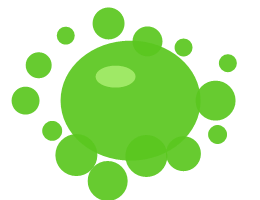
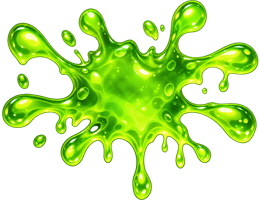
Props and effects: production art, scaled to the characters
All nine props and three effect images imported from the hi-res masters
with the new tools/ImportProp.cs (uniform fit, bottom/pin anchoring, alpha
fringe cleanup for the interactive layer). Props grow 1.5-2x to match the
upscaled characters; the bone ships hi-res as Characters/Bone (8 px/DIP).

Size-tied values follow the art: projectile radius 27, ball rest 12 px into
the cup, portal capture radius 150 and inset 220, blaster at x 110 with the
bolt leaving its muzzle.

diff --git a/tools/ImportProp.cs b/tools/ImportProp.cs
@@ -1,0 +1,119 @@
+#:property TargetFramework=net10.0-windows
+#:property UseWindowsForms=true
+#:property NoWarn=CA1416
+#:property PublishAot=false
+#:property PublishTrimmed=false
+
+// Imports one high-resolution transparent PNG (e.g. ART-PROOF/Props/broom.png) as a Haunt Patrol prop or
+// effect image of a fixed size. The source is only read.
+//
+//   dotnet run tools/ImportProp.cs -- ART-PROOF/Props/broom.png HauntPatrol/Assets/Props/broom.png 44x180 --clean
+//
+// The visible pixels (alpha > 16) are scaled uniformly to the largest size that fits, never stretched, and
+// padded with transparency. Placement:
+//   (default)         centred.
+//   --bottom          resting on the bottom edge, centred horizontally (cut-off wrists, cauldron feet).
+//   --pin sx,sy:dx,dy source pixel (sx,sy) lands on output point (dx,dy) in logical pixels, e.g. a pen nib on
+//                     the bottom centre, where the game expects the tip.
+//   --res k           k output pixels per logical pixel, for hi-res sprites (Characters/<Name>/, §2.4).
+//   --clean           for the interactive (alpha hit-tested) layer: drops the faint haze around the art before
+//                     scaling and near-invisible fringe pixels after it, so it can't swallow desktop clicks.
+
+using System.Drawing;
+using System.Drawing.Drawing2D;
+using System.Drawing.Imaging;
+using System.Runtime.InteropServices;
+
+const byte AlphaThreshold = 16, FringeAlpha = 10;
+
+var (srcPath, outPath, size) = (args[0], args[1], ParseSize(args[2]));
+var (bottom, clean, res) = (false, false, 1);
+(PointF From, PointF To)? pin = null;
+for (var i = 3; i < args.Length; i++)
+    switch (args[i])
+    {
+        case "--bottom": bottom = true; break;
+        case "--clean": clean = true; break;
+        case "--res": res = int.Parse(args[++i]); break;
+        case "--pin":
+            var p = args[++i].Split(':').Select(s => s.Split(',').Select(float.Parse).ToArray()).ToArray();
+            pin = (new PointF(p[0][0], p[0][1]), new PointF(p[1][0], p[1][1]));
+            break;
+        default: throw new ArgumentException($"unknown argument {args[i]}");
+    }
+
+using var source = new Bitmap(srcPath);
+var argb = source.Clone(new Rectangle(0, 0, source.Width, source.Height), PixelFormat.Format32bppArgb);
+if (clean) ClearBelow(argb, AlphaThreshold);
+var box = Bounds(argb);
+using var src = ToPArgb(argb); // premultiplied, so resampling doesn't drag dark fringes in from transparent pixels
+
+var (w, h) = (size.Width * res, size.Height * res);
+var scale = Math.Min((double)w / box.Width, (double)h / box.Height);
+// Where the bounding box's top-left lands, in output pixels.
+double x = (w - box.Width * scale) / 2, y = bottom ? h - box.Height * scale : (h - box.Height * scale) / 2;
+if (pin is var (from, to))
+{
+    x = to.X * res - (from.X - box.Left) * scale;
+    y = to.Y * res - (from.Y - box.Top) * scale;
+}
+
+using var output = new Bitmap(w, h, PixelFormat.Format32bppPArgb);
+using (var g = Graphics.FromImage(output))
+{
+    g.Clear(Color.Transparent);
+    g.CompositingQuality = CompositingQuality.HighQuality;
+    g.InterpolationMode = InterpolationMode.HighQualityBicubic;
+    g.PixelOffsetMode = PixelOffsetMode.HighQuality;
+    using var wrap = new ImageAttributes();
+    wrap.SetWrapMode(WrapMode.TileFlipXY); // no smeared edges from the resampler
+    var (left, top) = ((float)(x - box.Left * scale), (float)(y - box.Top * scale));
+    var (right, below) = (left + (float)(src.Width * scale), top + (float)(src.Height * scale));
+    g.DrawImage(src, [new PointF(left, top), new PointF(right, top), new PointF(left, below)],
+        new RectangleF(0, 0, src.Width, src.Height), GraphicsUnit.Pixel, wrap);
+}
+using var final = output.Clone(new Rectangle(0, 0, w, h), PixelFormat.Format32bppArgb);
+if (clean) ClearBelow(final, FringeAlpha);
+Directory.CreateDirectory(Path.GetDirectoryName(Path.GetFullPath(outPath))!);
+final.Save(outPath, ImageFormat.Png);
+
+var placed = new RectangleF((float)x, (float)y, (float)(box.Width * scale), (float)(box.Height * scale));
+var clipped = placed.Left < -0.5 || placed.Top < -0.5 || placed.Right > w + 0.5 || placed.Bottom > h + 0.5;
+Console.WriteLine($"{Path.GetFileName(outPath)}: {w}x{h}, art {placed.Width:0.0}x{placed.Height:0.0} at ({placed.X:0.0},{placed.Y:0.0}), " +
+                  $"scale {scale:0.0000}, {new FileInfo(outPath).Length / 1024.0:0.0} KB{(clipped ? "  WARNING: art extends past the canvas" : "")}");
+
+static Size ParseSize(string s) { var p = s.Split('x'); return new Size(int.Parse(p[0]), int.Parse(p[1])); }
+
+static Bitmap ToPArgb(Bitmap b)
+{
+    var p = new Bitmap(b.Width, b.Height, PixelFormat.Format32bppPArgb);
+    using (var g = Graphics.FromImage(p)) { g.CompositingMode = CompositingMode.SourceCopy; g.DrawImage(b, 0, 0, b.Width, b.Height); }
+    b.Dispose();
+    return p;
+}
+
+// Fully clears every pixel whose alpha is below the limit (colour too, so nothing reappears when resampled).
+static void ClearBelow(Bitmap bmp, byte limit)
+{
+    var data = bmp.LockBits(new Rectangle(0, 0, bmp.Width, bmp.Height), ImageLockMode.ReadWrite, PixelFormat.Format32bppArgb);
+    var px = new byte[data.Stride * bmp.Height];
+    Marshal.Copy(data.Scan0, px, 0, px.Length);
+    for (var i = 0; i < px.Length; i += 4)
+        if (px[i + 3] < limit) px[i] = px[i + 1] = px[i + 2] = px[i + 3] = 0;
+    Marshal.Copy(px, 0, data.Scan0, px.Length);
+    bmp.UnlockBits(data);
+}
+
+static Rectangle Bounds(Bitmap bmp)
+{
+    var data = bmp.LockBits(new Rectangle(0, 0, bmp.Width, bmp.Height), ImageLockMode.ReadOnly, PixelFormat.Format32bppArgb);
+    var px = new byte[data.Stride * bmp.Height];
+    Marshal.Copy(data.Scan0, px, 0, px.Length);
+    bmp.UnlockBits(data);
+    int l = bmp.Width, t = bmp.Height, r = -1, b = -1;
+    for (var y = 0; y < bmp.Height; y++)
+    for (var x = 0; x < bmp.Width; x++)
+        if (px[y * data.Stride + x * 4 + 3] > AlphaThreshold) { l = Math.Min(l, x); r = Math.Max(r, x); t = Math.Min(t, y); b = Math.Max(b, y); }
+    if (r < 0) throw new InvalidDataException("empty image");
+    return Rectangle.FromLTRB(l, t, r + 1, b + 1);
+}

diff --git a/HauntPatrol/Encounters/WitchsFamiliar/WitchsFamiliarEncounter.cs b/HauntPatrol/Encounters/WitchsFamiliar/WitchsFamiliarEncounter.cs
@@ -19,7 +19,7 @@ public sealed class WitchsFamiliarEncounter : IEncounter
     public const double WanderForce = 240, WanderTurn = 3;
     public const double PortalShyness = 650;  // the cat doesn't *want* to go home on its own
     public const double Damping = 1.8, MaxSpeed = 760;
-    public const double CaptureRadius = 100, Margin = 50, HudBand = 120;
+    public const double CaptureRadius = 150, Margin = 50, HudBand = 120; // capture: half the portal art (300 DIP)
     const double ChaseMemory = 1.5; // the portal only counts if the broom drove the cat there
 
     EncounterContext _c = null!;
@@ -71,7 +71,7 @@ public sealed class WitchsFamiliarEncounter : IEncounter
         _c = c;
         var r = c.Random;
         var portalLeft = !c.Demo && r.Next(2) == 0;
-        _portalPos = new Point(portalLeft ? 170 : c.Width - 170, c.Height * (c.Demo ? 0.45 : 0.3 + r.NextDouble() * 0.4));
+        _portalPos = new Point(portalLeft ? 220 : c.Width - 220, c.Height * (c.Demo ? 0.45 : 0.3 + r.NextDouble() * 0.4));
         _broomPos = _lastBroomPos = new Point(portalLeft ? c.Width * 0.8 : c.Width * 0.2, c.Height * 0.62);
         var cauldronPos = new Point(c.Width * (c.Demo ? 0.5 : 0.35 + r.NextDouble() * 0.3), c.Height * 0.84);
 

diff --git a/HauntPatrol/Encounters/SkeletonSiege/SkeletonSiegeEncounter.cs b/HauntPatrol/Encounters/SkeletonSiege/SkeletonSiegeEncounter.cs
@@ -40,7 +40,7 @@ public sealed class SkeletonSiegeOptions
     public double MaxPull { get; init; } = 230;
     public double MinPull { get; init; } = 25;
     public double GrabRadius { get; init; } = 70;
-    public double ProjectileRadius { get; init; } = 18;
+    public double ProjectileRadius { get; init; } = 27; // half the projectile art (54 DIP)
     public double HitPadding { get; init; } = 30;    // generous on purpose
     public double PreviewSeconds { get; init; } = 0.9; // only part of the arc, so aiming still takes skill
     public double WindUpSeconds { get; init; } = 5;
@@ -126,7 +126,7 @@ public sealed class SkeletonSiegeEncounter(SkeletonSiegeOptions? options = null)
         _skeleton = c.Spawn("skeleton", skeletonX, _groundY); // character pivot: feet
         _skeleton.FlipX = _dir < 0; // art faces right; face the way it will walk
 
-        _rest = new Point(catapultX, _groundY - catapultHeight + 8);
+        _rest = new Point(catapultX, _groundY - catapultHeight + 12); // in the cup, just below the catapult's top centre
         _ballPos = _rest;
         _ball = c.Spawn("projectile", _rest.X, _rest.Y);
 

diff --git a/HauntPatrol/Encounters/ZombieInvasion/ZombieInvasionEncounter.cs b/HauntPatrol/Encounters/ZombieInvasion/ZombieInvasionEncounter.cs
@@ -134,7 +134,7 @@ public sealed class ZombieInvasionEncounter(ZombieInvasionOptions? options = nul
         // Brain and blaster are never clicked: click-through layer.
         _brain = c.Spawn("brain", _brainPos.X, _brainPos.Y, onEffectsLayer: true);
         _brain.ScaleX = _brain.ScaleY = 0;
-        _blaster = c.Spawn("blaster", 80, c.Height * 0.86, onEffectsLayer: true);
+        _blaster = c.Spawn("blaster", 110, c.Height * 0.86, onEffectsLayer: true);
         _blaster.Opacity = 0;
 
         BuildThreatMeter();
@@ -387,7 +387,7 @@ public sealed class ZombieInvasionEncounter(ZombieInvasionOptions? options = nul
     void Zap(Zombie z, Point at)
     {
         _c.Audio.Play("zap");
-        Bolt(new Point(_blaster.X + 30, _blaster.Y - 22), at);
+        Bolt(new Point(_blaster.X + 70, _blaster.Y - 30), at); // the centre of the muzzle's mouth in the blaster art
         _blaster.Shake(0.12, 3);
         _c.Particles.Ring(at, Color.FromRgb(160, 255, 255), 45, 0.25, 4);
         _c.Particles.Burst(at, 8, Color.FromRgb(200, 255, 255), 260, 0.35, 5, 0);

diff --git a/ART-ASSETS.md b/ART-ASSETS.md
@@ -332,15 +332,44 @@ source. The victory face reads as mild, not overjoyed.
 
 | File | id | Size | Layer | Used in | Notes for the artist |
 |---|---|---|---|---|---|
-| `Props/catapult.png` | `catapult` | 150 × 110 | interactive | Skeleton | Base sits on the bottom edge. The projectile rests about 8 px below the **top centre** (the cup). The game mirrors it and rocks it 10° when firing. |
-| `Props/projectile.png` | `projectile` | 36 × 36 | interactive | Skeleton | Spins in flight, so keep it roughly round. |
-| `Props/bone.png` | `bone` | 70 × 26 | click-through | Skeleton | Spins and is **scaled up to 10×** as it flies at the viewer. Provide it hi-res via §2.4. |
-| `Props/broom.png` | `broom` | 44 × 180 | interactive | Cat | Vertical, bristles at the bottom. The cat flees from a point 35% below the centre. It tilts ±35° while dragged. |
-| `Props/portal.png` | `portal` | 200 × 200 | interactive | Cat | Spins continuously at 90°/s, so make it roughly radially symmetric. The capture radius is ~100 DIP. Good candidate for animated frames (§2.4). |
-| `Props/cauldron.png` | `cauldron` | 120 × 96 | interactive | Cat | Tips over 100° about its centre on failure, and slime bursts from its rim. |
-| `Props/pen.png` | `pen` | 28 × 110 | interactive | Ghost | Vertical, **writing tip at the bottom centre**. It's held tilted 25° and the trail starts at the tip. It's drawn at 125% (`GhostTrapOptions.PenScale`), with a pulsing glow on the tip added in code. |
-| `Props/blaster.png` | `blaster` | 100 × 64 | click-through | Zombies | Sits bottom-left. Bolts leave from a point 30 px right and 22 px above its centre, so put the muzzle at the upper right. |
-| `Props/bonehand.png` | `bonehand` | 46 × 70 | click-through | Zombies | Skeletal hand, fingers up. Two of them poke up from the bottom edge as a warning. |
+| `Props/catapult.png` | `catapult` | 225 × 165 | interactive | Skeleton | Base sits on the bottom edge. The projectile rests 12 px below the **top centre** (the cup). The game mirrors it and rocks it 10° when firing. |
+| `Props/projectile.png` | `projectile` | 54 × 54 | interactive | Skeleton | Spins in flight, so keep it roughly round. Collides as a circle of radius 27 (`ProjectileRadius`). |
+| `Props/bone.png` | `bone` | 105 × 39 | click-through | Skeleton | Spins and is **scaled up to 10×** as it flies at the viewer. Shipped hi-res as `Characters/Bone/` (840 × 312, 8 px per DIP, which the loader prefers). This 105 × 39 file is only a fallback. |
+| `Props/broom.png` | `broom` | 77 × 315 | interactive | Cat | Vertical, bristles at the bottom. The cat flees from a point 35% below the centre. It tilts ±35° while dragged. |
+| `Props/portal.png` | `portal` | 300 × 300 | interactive | Cat | Spins continuously at 90°/s, so make it roughly radially symmetric. The capture radius is 150 DIP (`CaptureRadius`), and its centre sits 220 DIP from the screen edge. |
+| `Props/cauldron.png` | `cauldron` | 240 × 192 | interactive | Cat | Tips over 100° about its centre on failure, and slime bursts from its rim. |
+| `Props/pen.png` | `pen` | 42 × 165 | interactive | Ghost | Vertical, **writing tip at the bottom centre**. It's held tilted 25° and the trail starts at the tip. It's drawn at 125% (`GhostTrapOptions.PenScale`), with a pulsing glow on the tip added in code. |
+| `Props/blaster.png` | `blaster` | 175 × 112 | click-through | Zombies | Sits bottom-left, centred 110 DIP from the left edge. Bolts leave from a point 70 px right and 30 px above its centre (the production muzzle's mouth), so put the muzzle at the upper right. |
+| `Props/bonehand.png` | `bonehand` | 80 × 122 | click-through | Zombies | Skeletal hand, fingers up. Two of them poke up from the bottom edge as a warning. |
+
+### 4.1 Production props and effects
+
+Every image in §4 and §5 is production art, imported from the high-resolution masters in `ART-PROOF/Props/`
+and `ART-PROOF/Effects/`:
+
+```
+dotnet run tools/ImportProp.cs -- ART-PROOF/Props/broom.png HauntPatrol/Assets/Props/broom.png 44x180 --clean
+```
+
+The importer scales the visible pixels (alpha > 16) uniformly to the largest size that fits and pads the rest
+with transparency, so nothing is stretched. Options:
+- `--bottom` rests the art on the bottom edge. Used for the catapult, the cauldron and the bone hand, whose wrist
+  is cut off at the edge so it climbs out of the screen.
+- `--pin` puts a chosen source point on a chosen output point. The pen's nib, at (362, 2104) in the master, goes
+  to (21, 164), the bottom centre the game uses as the tip. Centring the outline would not do this, because the
+  pen's clip sticks out to one side.
+- `--res 8` writes the bone's hi-res frame.
+- `--clean` is used for the interactive props (catapult, projectile, broom, portal, cauldron, pen). It removes
+  the faint haze around the masters before scaling and any pixel under alpha 10 after scaling, so a nearly
+  invisible fringe can't catch desktop clicks. Click-through art keeps its soft edges.
+
+The props are scaled to match the upscaled characters: 1.5× for the catapult, projectile, bone, portal and pen;
+1.75× for the broom, blaster and bone hand; 2× for the cauldron. The effects in §5 are sized to the screen, not
+to a character, so they kept their sizes. The gameplay values tied to a prop's size scale with it: the
+projectile's collision radius (18 → 27), the ball's rest point in the cup (8 → 12 px below the top), the
+portal's capture radius (100 → 150) and edge inset (170 → 220), and the blaster's position (x 80 → 110) and bolt
+origin. The catapult cup lands about 4 px right of the top centre, which is close enough for the ball to sit
+in it.
 
 ## 5. Effect images (single PNG, click-through)
 

diff --git a/README.md b/README.md
@@ -57,13 +57,15 @@ the actual rectangle of each overlay window and the foreground window before and
 
 ## Artwork and sound
 
-Everything in `HauntPatrol/Assets` is a placeholder generated by `tools/MakeAssets.cs`:
+All the images in `HauntPatrol/Assets` are production art. They're imported from high-resolution masters
+in `ART-PROOF/`, which is kept out of git. `tools/ImportSprite.cs` builds the character sheets and
+`tools/ImportProp.cs` sizes the props and effects; `ART-ASSETS.md` has the commands. The sounds are still
+placeholders from `tools/MakeAssets.cs`, which only writes files that are missing. Never run it with `--force`
+on production art:
 
 ```bash
 dotnet run tools/MakeAssets.cs
 ```
-
-To use production art, replace the files in place.
 
 - **Characters** (`Assets/Characters/<Id>/animations.json`) define the logical size in DIPs, the pivot, and
   one entry per animation clip. Each clip has a source sheet, frame size, frame count, fps and a loop flag.
@@ -108,6 +110,8 @@ HauntPatrol/
   Effects/     glass, slime, spectral fog and zombie infection penalties
   Audio/       WAV playback
 tools/MakeAssets.cs   placeholder art and sound generator
+tools/ImportSprite.cs character sheets from exported frames
+tools/ImportProp.cs   props and effects from single high-resolution images
 ```
 
 ## Known limits
